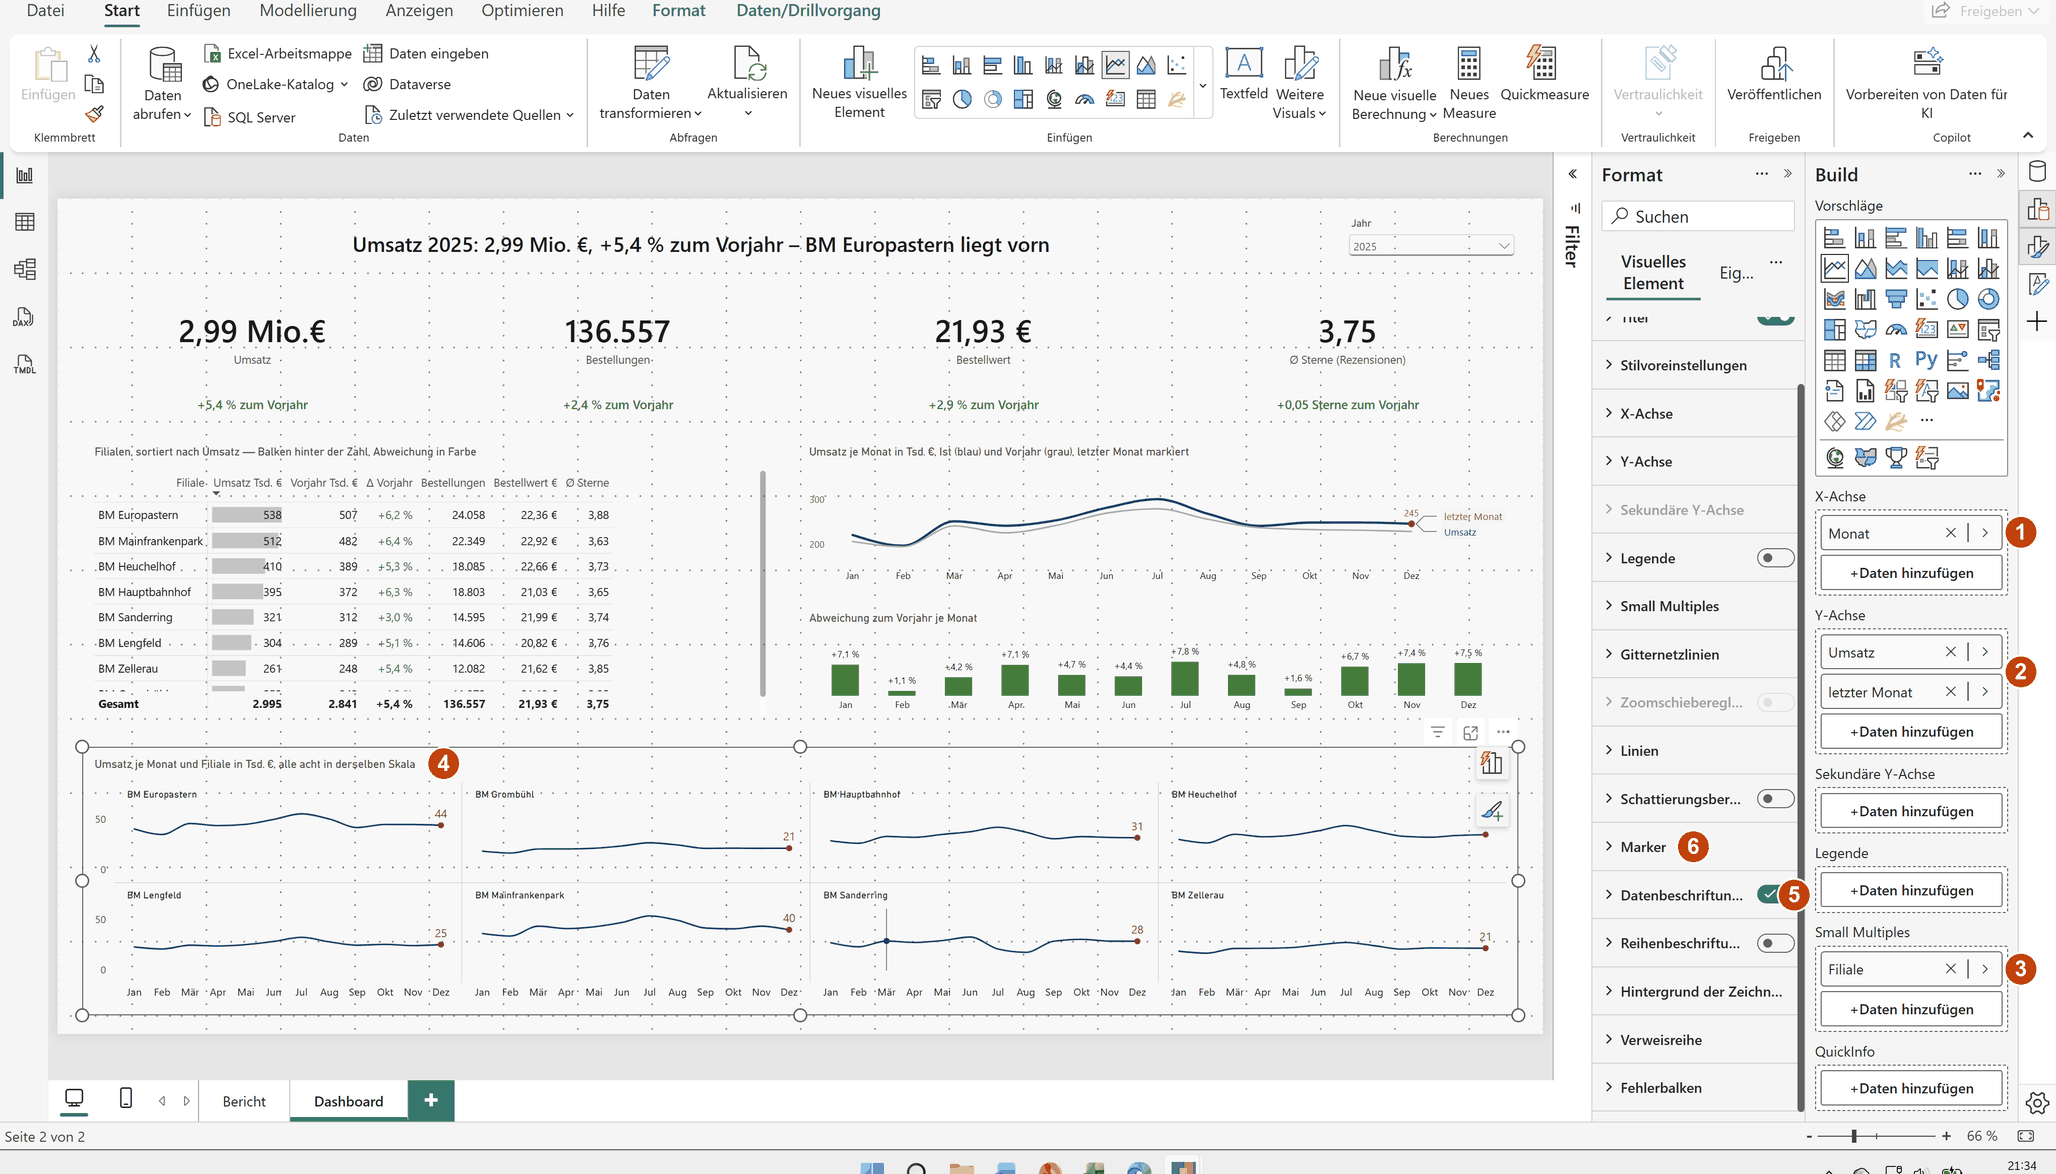
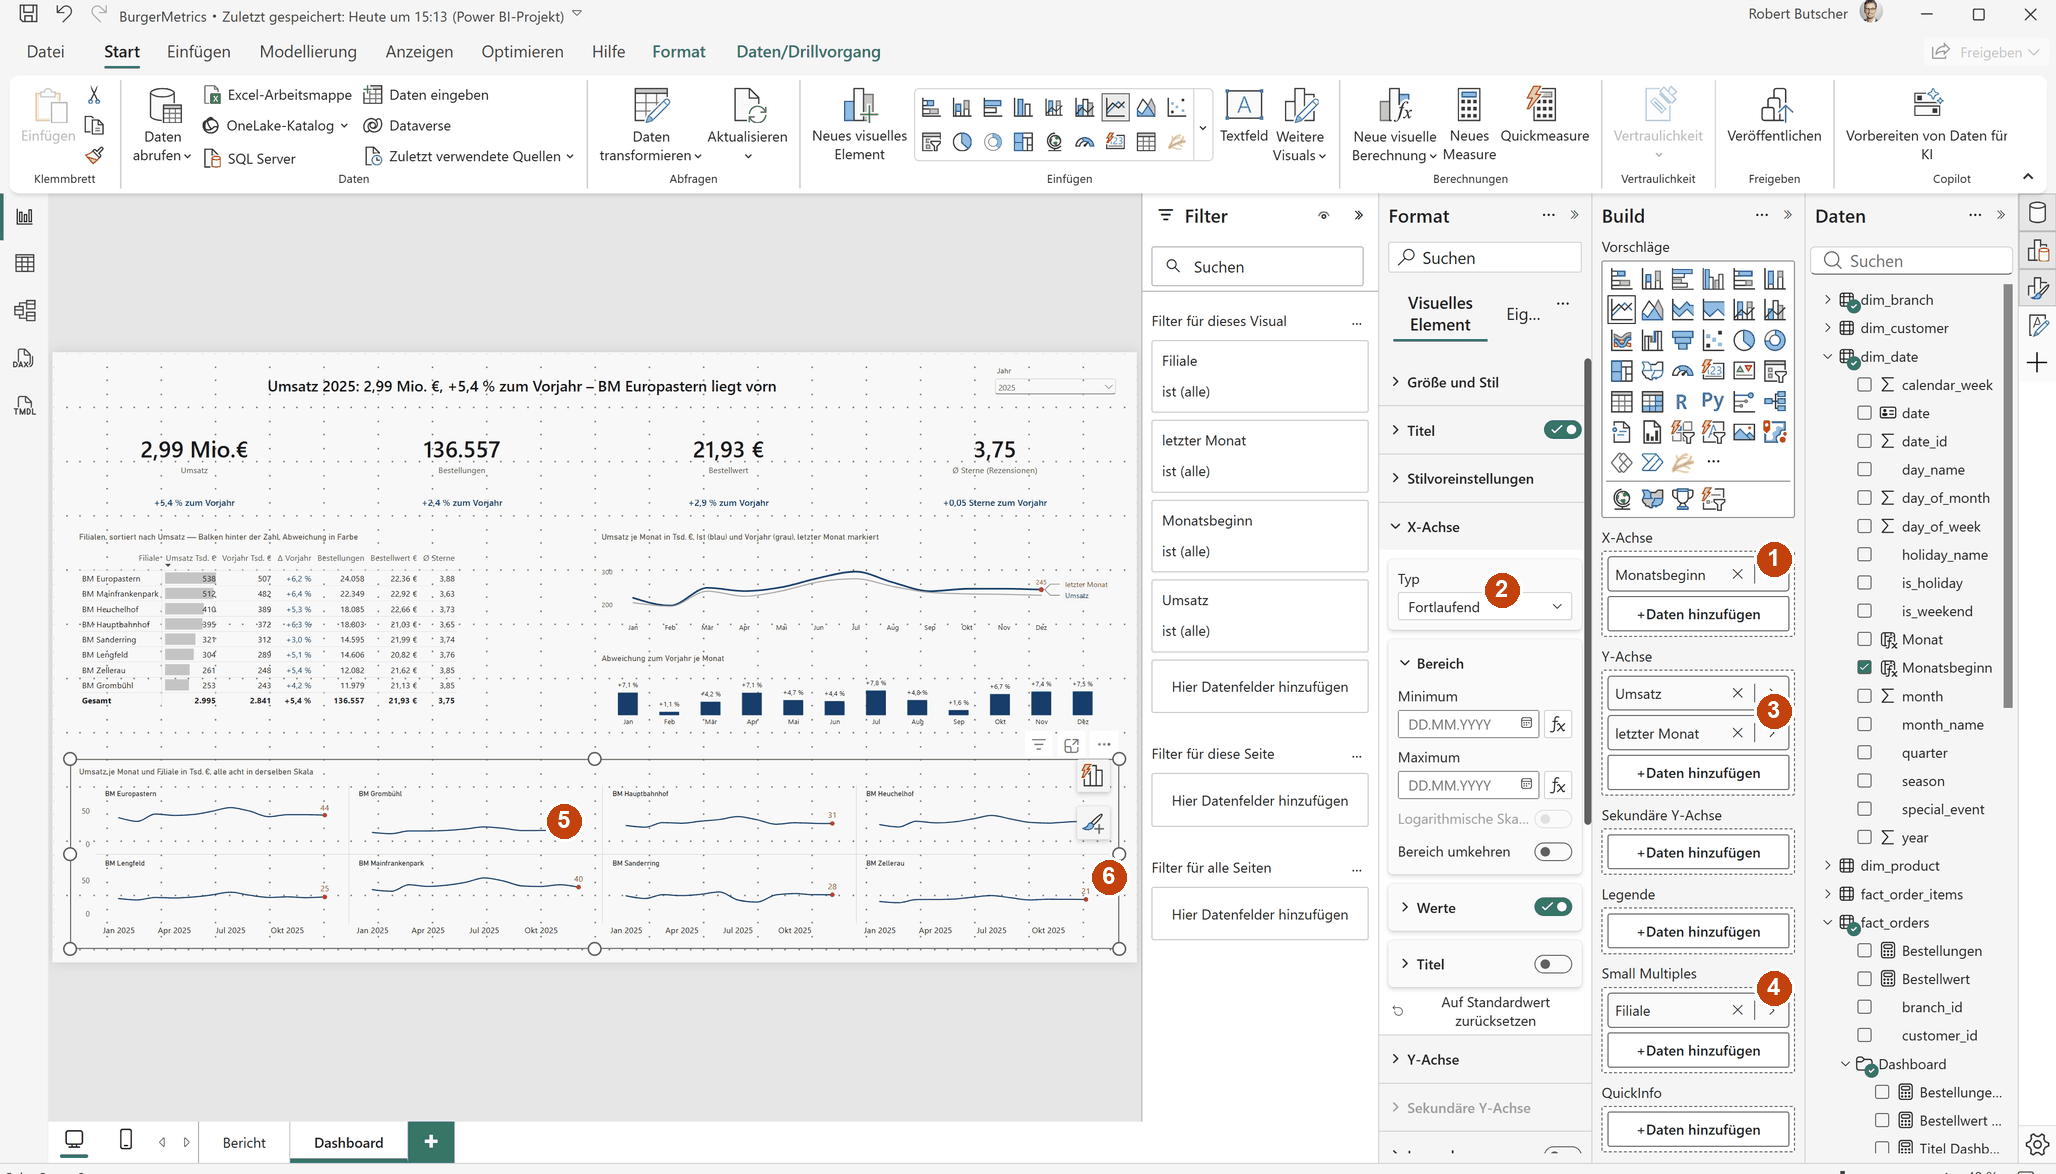
lab 04: Small Multiples mit stetiger Datumsachse statt aller Monatsnamen
Die kategoriale Achse beschriftet jede Kategorie, also alle zwölf Monate je
Filiale — acht Diagramme mit je zwölf Beschriftungen wirken überfrachtet. Eine
neue berechnete Spalte Monatsbeginn = DATE(dim_date[year], dim_date[month], 1)
liefert ein Datum; als Kategorie mit Achsentyp "Fortlaufend" dünnt Power BI die
Beschriftungen selbst aus und zeigt Jan, Apr, Jul und Okt — dieselben Abstände
wie in Tableau. Mit date allein wird die Achse tagesgenau und unlesbar.

Lab 04, die DAX-Vorlage und Befehlskarte B04 nennen den Weg; die Bildschirm-
fotos dashboard.png und dashboard-smallmultiples.png sind neu aufgenommen.

Changed region(s): [[0.0, 0.0, 1.0, 1.0], [0.0, 0.3066, 0.0311, 0.368]]

diff --git a/web/lab/lab-04-powerbi.html b/web/lab/lab-04-powerbi.html
@@ -260,7 +260,7 @@
       <div class="shot-bar"><span class="ampel"><i></i><i></i><i></i></span><span class="titel">Berichtsansicht, Seite „Bericht“</span><span class="spacer"></span>Power BI Desktop · August 2026</div>
       <a class="foto" href="assets/powerbi/bericht.png" target="_blank" rel="noopener"><img src="assets/powerbi/bericht.png" alt="Berichtsansicht in Power BI Desktop: oben links die Tabelle Kennzahlen 2025 mit Bestellungen 136.557, Bestellwert 21,93 €, Ø Sterne 3,75 und Umsatz 2.994.771,13 €, darunter das Balkendiagramm BM Europastern erzielt 2025 den höchsten Umsatz und das Liniendiagramm Der Umsatz 2025 erreicht im Juli seinen Höchstwert; rechts der Filterbereich mit year ist 2025, der Formatbereich, der Build-Bereich und der Datenbereich" width="2056" height="1174" loading="lazy"></a>
     </div>
-    <p class="foto-hinweis">Bildschirmfoto vom 21.09.2026, Power BI Desktop 2.157.1354.0 (August 2026) unter Windows 11, deutsche Oberfläche — zum Vergrößern anklicken.</p>
+    <p class="foto-hinweis">Bildschirmfoto vom 22.09.2026, Power BI Desktop 2.157.1354.0 (August 2026) unter Windows 11, deutsche Oberfläche — zum Vergrößern anklicken.</p>
     <ol class="shot-legende">
       <li><span class="callout">1</span><span>Die Tabelle mit den vier Measures und dem Titel „Kennzahlen 2025 — die Kontrollzahlen aus v_kennzahlen_jahr“: Alle vier Zahlen stimmen mit der Sicht überein.</span></li>
       <li><span class="callout">2</span><span>Balkendiagramm (gruppiert, waagerecht): <code>branch_name</code> auf der Y-Achse, <code>Umsatz</code> auf der X-Achse, Titel als Aussage. Die Achse beginnt bei null.</span></li>
@@ -281,7 +281,7 @@
     <p>Der Bericht zeigt Zahlen; ein Dashboard stellt sie in einen Vergleich. Das Dashboard dieses Labs folgt vier Regeln aus dem Deck: <strong>Grau ist der Normalfall, Farbe die Ausnahme</strong> — die einzige Farbe sitzt in der Abweichung zum Vorjahr, Blau für plus, Rot für minus — dasselbe Blau wie die Ist-Linie. Blau-Rot statt Grün-Rot, weil rund acht Prozent der Männer Rot und Grün schlecht unterscheiden. <strong>Zahlen bleiben Zahlen</strong> — die Filialen stehen in einer Tabelle, der Balken liegt hinter der Zahl, nicht daneben. <strong>Die Abweichung bekommt eine eigene Zeile</strong> — die Linie zeigt Ist und Vorjahr in Grau und Blau, darunter stehen die Prozentwerte je Monat als eigenes Diagramm. <strong>Small Multiples in derselben Skala</strong> — acht Filialen als acht kleine Linien mit einer gemeinsamen Achse, jede mit dem letzten Wert beschriftet statt mit einer Legende. Der Titel ist ein Measure und nennt Jahr, Summe, Abweichung und die führende Filiale: „Umsatz 2025: 2,99 Mio. €, +5,4 % zum Vorjahr – BM Europastern liegt vorn“.</p>
     <div class="shot">
       <div class="shot-bar"><span class="ampel"><i></i><i></i><i></i></span><span class="titel">Seite „Dashboard“</span><span class="spacer"></span>Power BI Desktop · August 2026</div>
-      <a class="foto" href="assets/powerbi/dashboard.png" target="_blank" rel="noopener"><img src="assets/powerbi/dashboard.png" alt="Dashboard-Seite in Power BI Desktop: Titel Umsatz 2025: 2,99 Mio. €, +5,4 % zum Vorjahr – BM Europastern liegt vorn; Jahresauswahl 2025; vier Kacheln Umsatz 2,99 Mio. €, Bestellungen 136.557, Bestellwert 21,93 €, Ø Sterne 3,75 mit blauen Abweichungstexten zum Vorjahr; Tabelle der acht Filialen mit Datenbalken hinter Umsatz Tsd. €, Vorjahr, Δ Vorjahr in Blau, Bestellungen, Bestellwert und Ø Sterne; Liniendiagramm Umsatz je Monat Ist blau und Vorjahr grau mit rotem Punkt und 245 am letzten Monat; Säulen Abweichung zum Vorjahr je Monat in Blau; acht Small Multiples Umsatz je Monat und Filiale mit roten Endpunkten" width="2056" height="1152" loading="lazy"></a>
+      <a class="foto" href="assets/powerbi/dashboard.png" target="_blank" rel="noopener"><img src="assets/powerbi/dashboard.png" alt="Dashboard-Seite in Power BI Desktop: Titel Umsatz 2025: 2,99 Mio. €, +5,4 % zum Vorjahr – BM Europastern liegt vorn; Jahresauswahl 2025; vier Kacheln Umsatz 2,99 Mio. €, Bestellungen 136.557, Bestellwert 21,93 €, Ø Sterne 3,75 mit blauen Abweichungstexten zum Vorjahr; Tabelle der acht Filialen mit Datenbalken hinter Umsatz Tsd. €, Vorjahr, Δ Vorjahr in Blau, Bestellungen, Bestellwert und Ø Sterne; Liniendiagramm Umsatz je Monat Ist blau und Vorjahr grau mit rotem Punkt und 245 am letzten Monat; Säulen Abweichung zum Vorjahr je Monat in Blau; acht Small Multiples Umsatz je Monat und Filiale mit roten Endpunkten und der stetigen Achse Jan 2025 bis Okt 2025" width="2056" height="1152" loading="lazy"></a>
     </div>
     <p class="foto-hinweis">Bildschirmfoto vom 22.09.2026, Power BI Desktop 2.157.1354.0 (August 2026) unter Windows 11, deutsche Oberfläche — zum Vergrößern anklicken.</p>
     <ol class="shot-legende">
@@ -310,16 +310,16 @@
     </div>
     <div class="shot">
       <div class="shot-bar"><span class="ampel"><i></i><i></i><i></i></span><span class="titel">Small Multiples</span><span class="spacer"></span>Power BI Desktop · August 2026</div>
-      <a class="foto" href="assets/powerbi/dashboard-smallmultiples.png" target="_blank" rel="noopener"><img src="assets/powerbi/dashboard-smallmultiples.png" alt="Dashboard-Seite mit markiertem Liniendiagramm der acht Filialen; rechts der Build-Bereich mit X-Achse Monat, Y-Achse Umsatz und letzter Monat, Small Multiples Filiale; daneben der Formatbereich mit den Abschnitten Marker und Datenbeschriftungen eingeschaltet" width="2056" height="1174" loading="lazy"></a>
+      <a class="foto" href="assets/powerbi/dashboard-smallmultiples.png" target="_blank" rel="noopener"><img src="assets/powerbi/dashboard-smallmultiples.png" alt="Dashboard-Seite mit markiertem Liniendiagramm der acht Filialen; rechts der Build-Bereich mit X-Achse Monatsbeginn, Y-Achse Umsatz und letzter Monat, Small Multiples Filiale; daneben der Formatbereich mit X-Achse, Typ Fortlaufend und dem Abschnitt Bereich; im Dashboard acht Linien mit den Achsenbeschriftungen Jan 2025, Apr 2025, Jul 2025, Okt 2025 und roten Endpunkten" width="2056" height="1174" loading="lazy"></a>
     </div>
-    <p class="foto-hinweis">Bildschirmfoto vom 21.09.2026, Power BI Desktop 2.157.1354.0 (August 2026) unter Windows 11, deutsche Oberfläche — zum Vergrößern anklicken.</p>
+    <p class="foto-hinweis">Bildschirmfoto vom 22.09.2026, Power BI Desktop 2.157.1354.0 (August 2026) unter Windows 11, deutsche Oberfläche — zum Vergrößern anklicken.</p>
     <ol class="shot-legende">
-      <li><span class="callout">1</span><span>X-Achse: die Spalte <code>Monat</code> aus <code>dim_date</code> — Monatskürzel, nach <code>month</code> sortiert, damit Jan vor Feb steht.</span></li>
-      <li><span class="callout">2</span><span>Y-Achse: <code>Umsatz Tsd</code> und dazu <code>Umsatz Tsd letzter Monat</code>, ein Measure, das nur im jüngsten Monat einen Wert hat. Es zeichnet den roten Punkt und trägt die einzige Beschriftung.</span></li>
-      <li><span class="callout">3</span><span>Small Multiples: <code>branch_name</code> — aus einem Diagramm werden acht, zwei Zeilen zu vier Spalten (Format → Small Multiples → Layout).</span></li>
-      <li><span class="callout">4</span><span>Das Ergebnis mit gemeinsamer Skala 0 bis 50 Tsd. €: Die Höhe der Linie ist zwischen den Filialen vergleichbar, weil jede dieselbe Achse hat.</span></li>
-      <li><span class="callout">5</span><span>Datenbeschriftungen an, aber je Serie: für <code>Umsatz Tsd</code> aus, für <code>letzter Monat</code> an — Format → Datenbeschriftungen → Einstellungen übernehmen auf → Serie.</span></li>
-      <li><span class="callout">6</span><span>Marker ebenso je Serie: kleine blaue Punkte auf der Hauptlinie, ein großer roter auf dem letzten Monat.</span></li>
+      <li><span class="callout">1</span><span>X-Achse: die Spalte <code>Monatsbeginn</code> aus <code>dim_date</code> — <code>DATE(dim_date[year], dim_date[month], 1)</code>, also der Erste jedes Monats. Ein Datum statt der Textspalte <code>Monat</code>, damit die Achse stetig sein kann.</span></li>
+      <li><span class="callout">2</span><span>Typ „Fortlaufend“ (Format → X-Achse): Power BI setzt die Beschriftungen selbst — hier vier statt zwölf, Jan 2025 bis Okt 2025. Eine kategoriale Achse beschriftet jeden der zwölf Monate; in acht kleinen Diagrammen wird das unruhig.</span></li>
+      <li><span class="callout">3</span><span>Y-Achse: <code>Umsatz Tsd</code> und dazu <code>Umsatz Tsd letzter Monat</code>, ein Measure, das nur im jüngsten Monat einen Wert hat. Es zeichnet den roten Punkt und trägt die einzige Beschriftung.</span></li>
+      <li><span class="callout">4</span><span>Small Multiples: <code>branch_name</code> — aus einem Diagramm werden acht, zwei Zeilen zu vier Spalten (Format → Small Multiples → Layout).</span></li>
+      <li><span class="callout">5</span><span>Das Ergebnis mit gemeinsamer Skala 0 bis 50 Tsd. €: Die Höhe der Linie ist zwischen den Filialen vergleichbar, weil jede dieselbe Achse hat.</span></li>
+      <li><span class="callout">6</span><span>Marker und Datenbeschriftungen je Serie: für <code>Umsatz Tsd</code> aus, für <code>letzter Monat</code> an — Format → Datenbeschriftungen bzw. Marker → Einstellungen übernehmen auf → Serie.</span></li>
     </ol>
     <div class="concept-box">
       <h3>Was das Dashboard nicht tut</h3>
